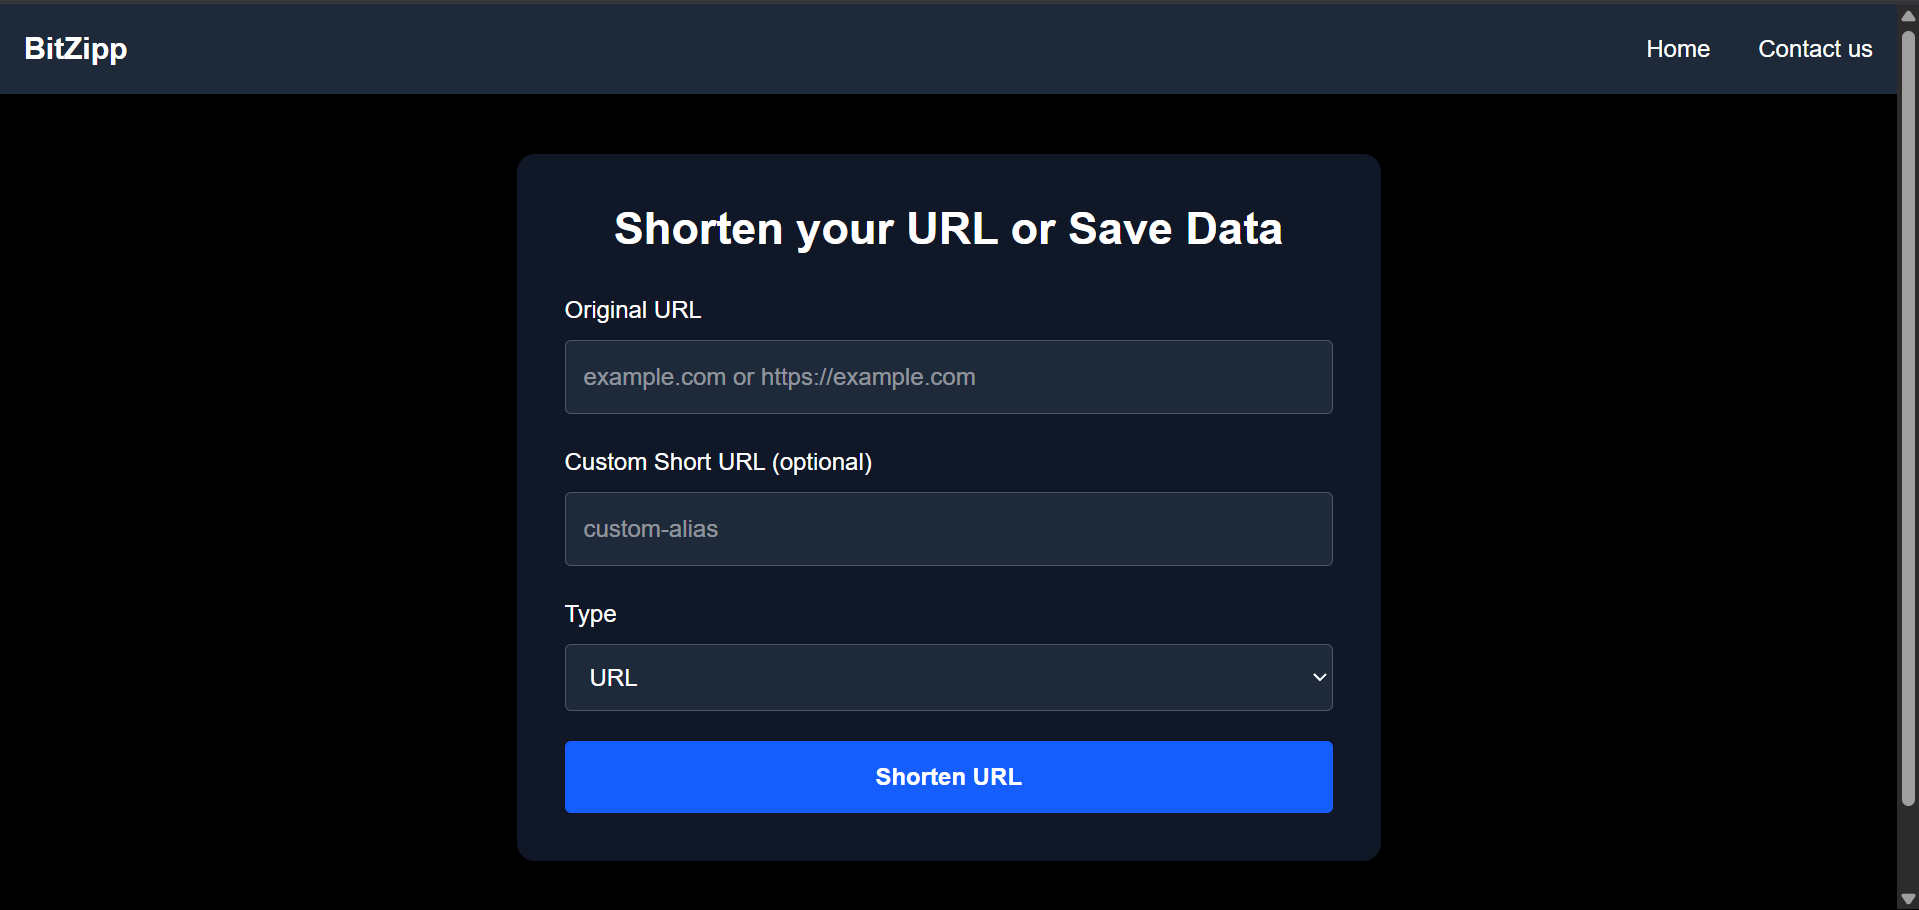
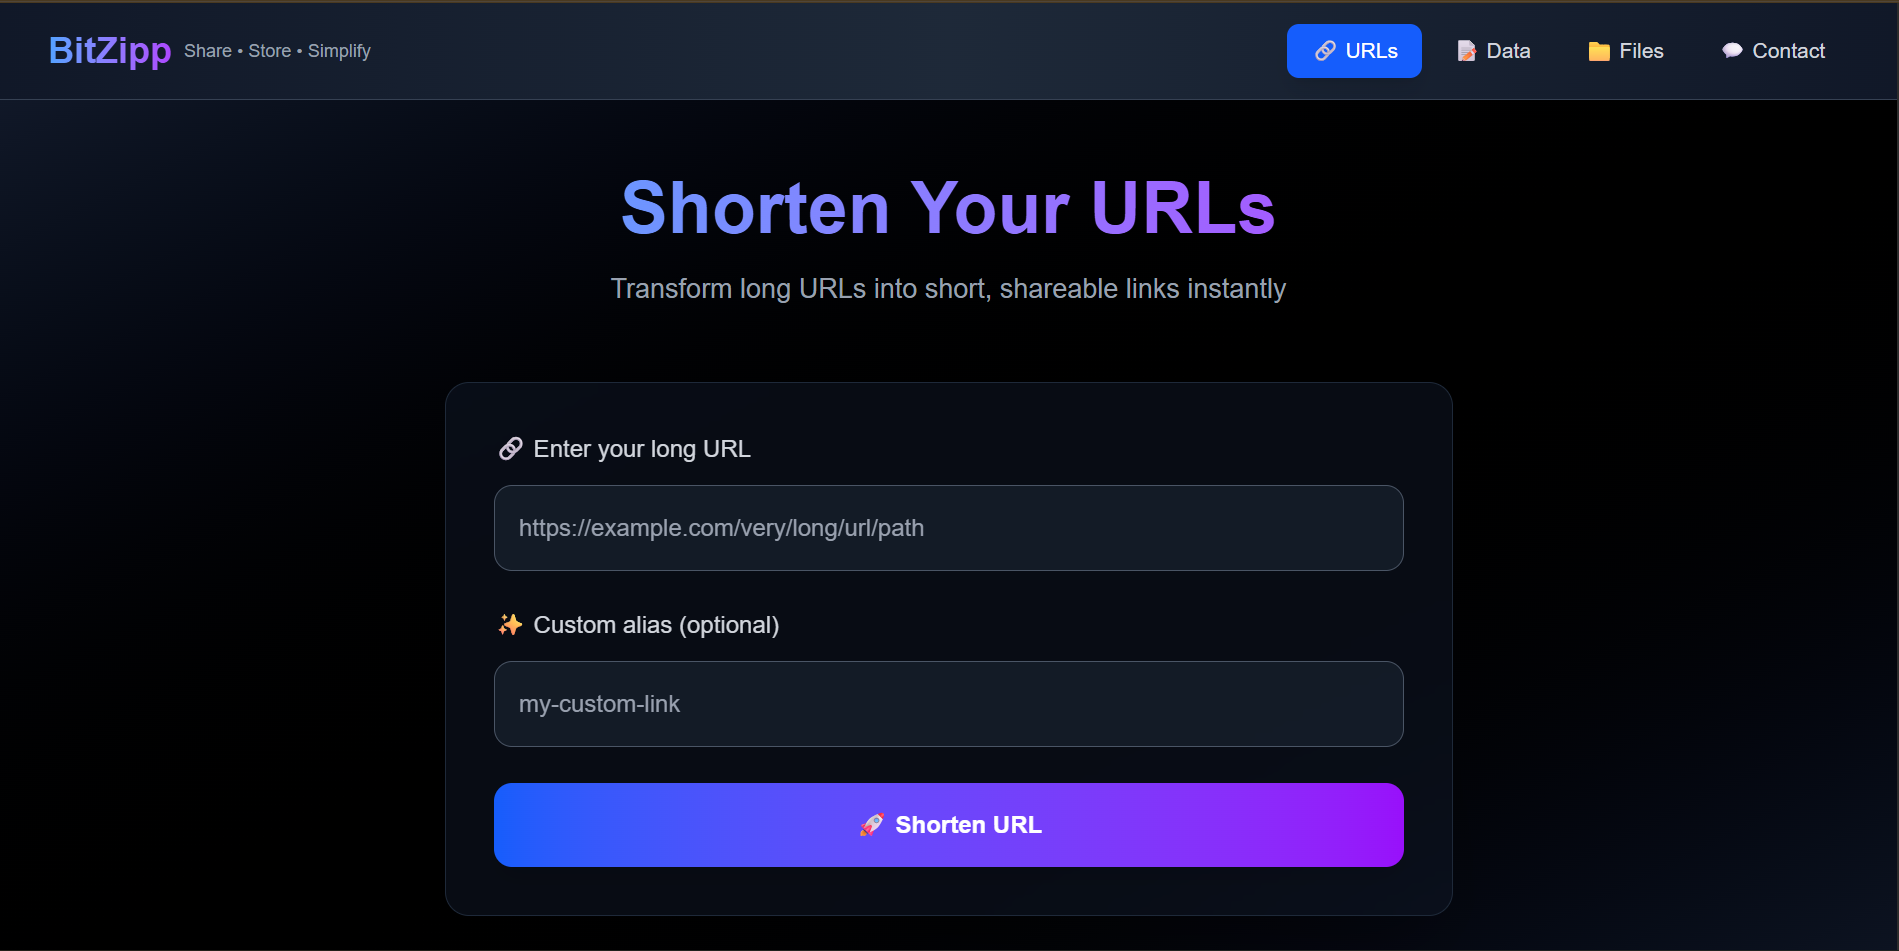
chnages

diff --git a/src/constants/index.js b/src/constants/index.js
@@ -194,6 +194,20 @@ const projects = [
   live_demo_link: "https://bitzipp.vercel.app/",
 },
 {
+  name: "Quizlyze",
+  description:
+    "An AI-powered learning companion that transforms any content — PDF, text, or YouTube videos — into interactive educational experiences. Generate summaries, quizzes, and flashcards on the fly to help you learn smarter and faster.",
+  tags: [
+    { name: "AI / LLM", color: "purple-text-gradient" },
+    { name: "Next.js", color: "blue-text-gradient" },
+    { name: "Tailwind CSS", color: "green-text-gradient" },
+    { name: "Google Gemini", color: "orange-text-gradient" }
+  ],
+  image: project5,
+  source_code_link: "https://github.com/sumitksr/Quizlyze",
+  live_demo_link: "https://quizlyze.vercel.app/",
+},
+{
     name: "Weather App",
     description:
       "Real-time weather app using OpenWeather API supporting 2,00,000+ cities. Optimized UI for 20+ screen sizes with mobile-first layout and error handling.",
@@ -208,18 +222,6 @@ const projects = [
     live_demo_link: "https://weather-app-alpha-azure.vercel.app/",
   },
   {
-  name: "Razorpay Clone",
-  description:
-    "A visually accurate frontend clone of Razorpay built with HTML and Tailwind CSS. Fully responsive layout replicating modern UI components and animations for practice and learning purposes.",
-  tags: [
-    { name: "HTML", color: "blue-text-gradient" },
-    { name: "Tailwind CSS", color: "green-text-gradient" }
-  ],
-  image: project5,
-  source_code_link: "https://github.com/sumitksr/Razorpay-Clone",
-  live_demo_link: "https://razorpay-clone-eight-woad.vercel.app/",
-},
-{
   name: "GreenCart – Sparkathon Project",
   description:
     "An eco-friendly e-commerce platform built for the Walmart Sparkathon Hackathon. ",
